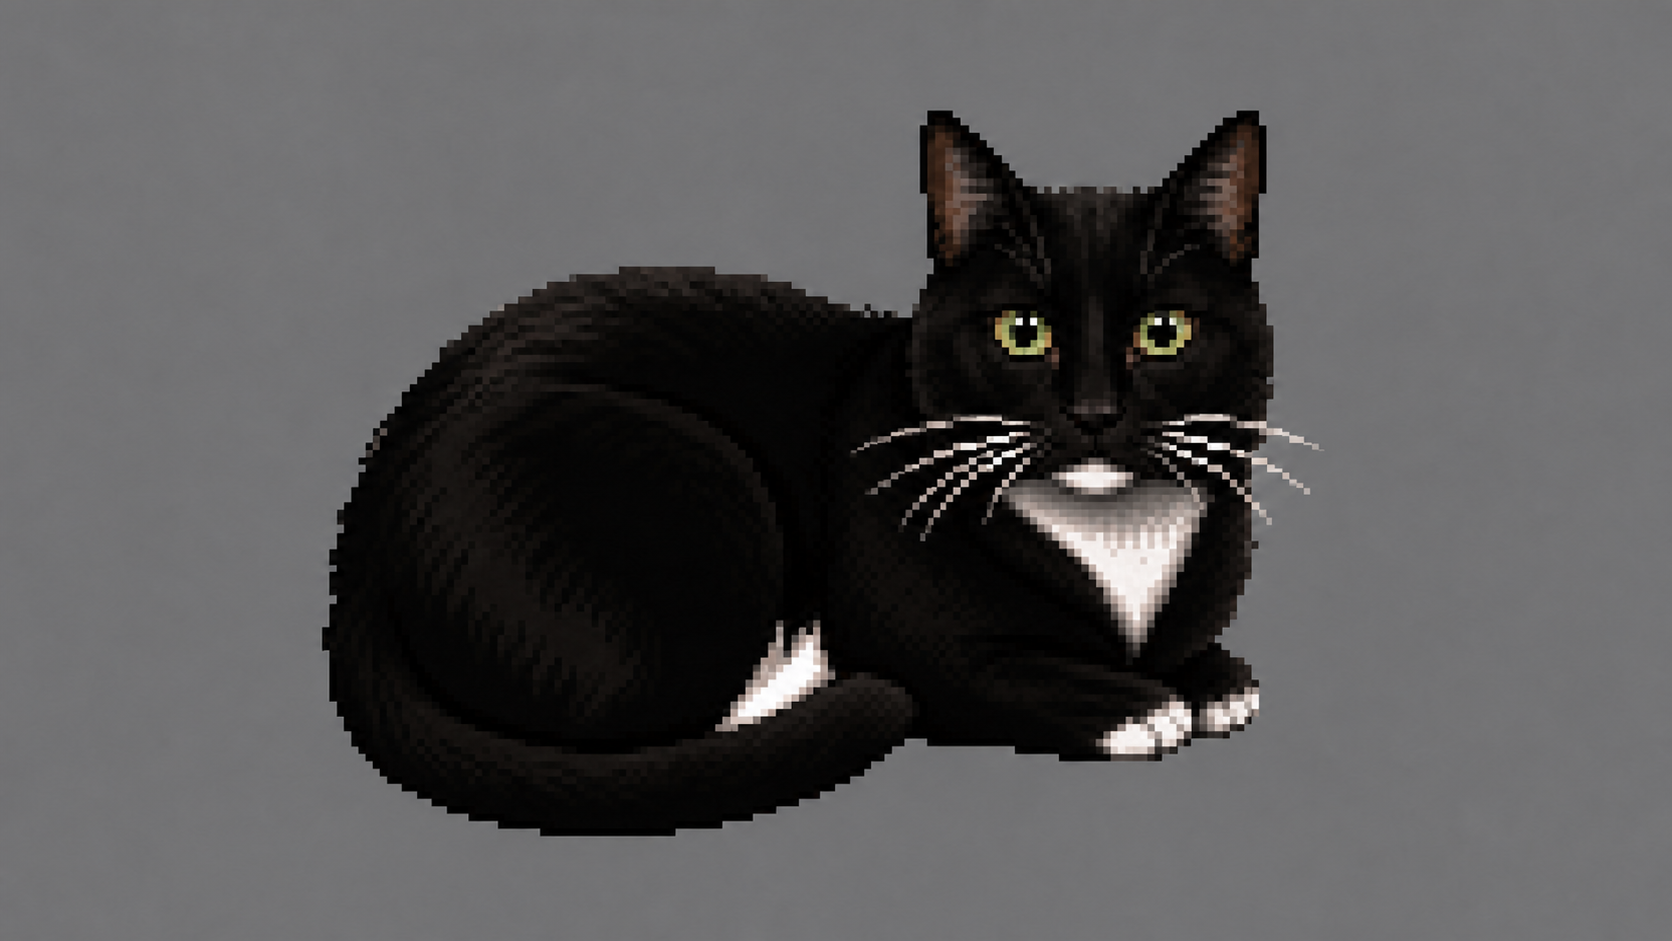
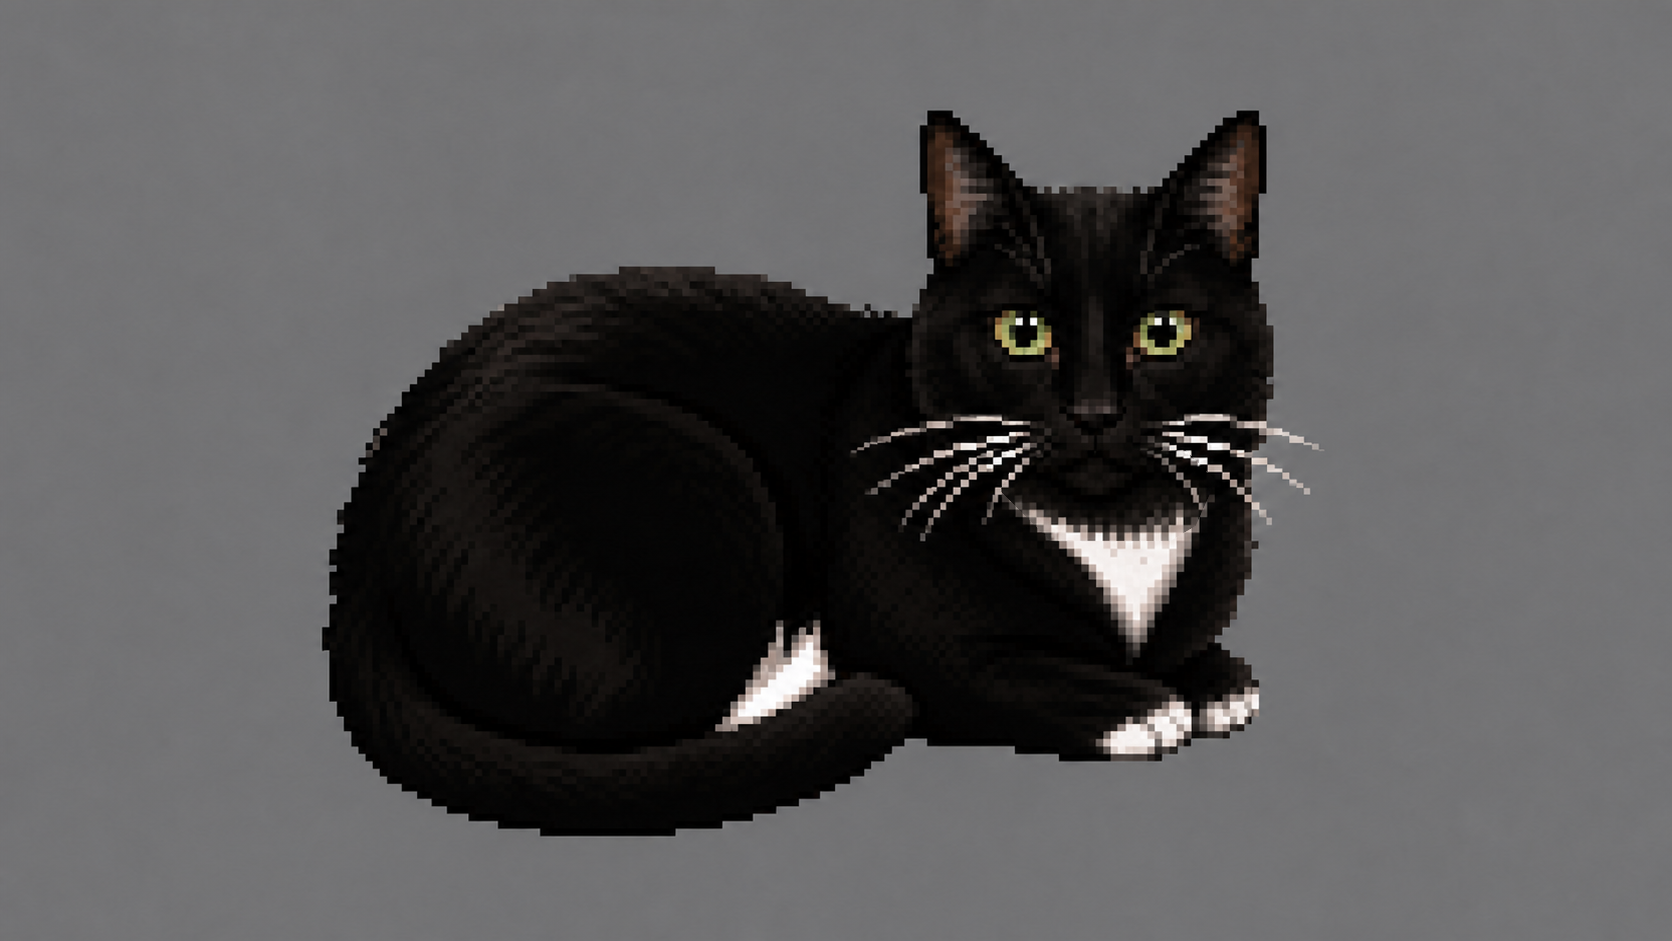
Fix cat wallpaper and Plymouth unlock image

Changed region(s): [[0.5909, 0.4931, 0.7464, 0.5855]]

diff --git a/docs/setup-cat-background.md b/docs/setup-cat-background.md
@@ -1,6 +1,7 @@
 # setup-cat-background
 
-Renders a full-color pixel-art cat wallpaper on a neutral-gray background.
+Renders a full-color pixel-art cat wallpaper on a neutral-gray background and
+uses the same corrected cat for Omarchy's Plymouth disk-encryption prompt.
 
 ```bash
 ./bin/setup-cat-background              # render it and make it current
@@ -24,7 +25,8 @@ alongside the cat. It appears in the background switcher as "Pixel Cat".
 
 ## The art
 
-`assets/cat-wallpaper.png` is the approved full-color source artwork. It was
+`assets/cat-wallpaper.png` is the approved full-color source artwork. The cat's
+chin is black while its white chest bib begins below it. It was
 generated from two cat photographs: the first supplied the curled body pose,
 and the second supplied the coherent front-facing identity, facial proportions,
 eyes, ears, markings, and whiskers. The generated source is 1672x941 RGB pixel
@@ -39,15 +41,23 @@ and markings remain intact across themes.
 1. Installs `imagemagick` with `omarchy pkg add` if it is not already present.
 2. Reads the active theme from `~/.local/state/omarchy/current/theme.name` to
    select its per-theme user background directory.
-3. Scales `assets/cat-wallpaper.png` into the requested canvas with
-   ImageMagick's `point` filter, preserving hard pixel edges and the full RGB
-   palette. Non-16:9 sizes receive neutral-gray padding rather than distortion.
+3. Scales `assets/cat-wallpaper.png` into the requested desktop canvas and an
+   `800x450` transparent Plymouth image with ImageMagick's `point` filter,
+   preserving hard pixel edges and the full RGB palette. The transparent cutout
+   blends into Plymouth's flat neutral-gray background without a rectangular
+   edge. Non-16:9 desktop sizes receive neutral-gray padding rather than
+   distortion. The unlock image lives under `~/.config/omarchy/plymouth/`, so it
+   does not appear in the desktop background switcher.
 4. Compares the result with the existing wallpaper and rewrites it only if the
    bytes differ, backing the old one up first.
 5. Sets it as the current background with `omarchy theme bg set`, then bounces
    Omarchy Shell through a private cache alias and back to the stable path. This
    defeats the shell's same-path guard and image cache so changed pixels reload
-   immediately. `--no-activate` skips this step.
+   immediately.
+6. Applies the smaller image to the early-boot disk-encryption prompt with
+   `omarchy plymouth set`, which rebuilds the initramfs using Omarchy's supported
+   Plymouth workflow. It skips that rebuild when the installed image is already
+   current. `--no-activate` skips both activation steps.
 
 Rendering is deterministic: `-strip` and excluded PNG date chunks mean the same
 source and canvas size produce the same bytes. That makes step 4 a real
@@ -58,7 +68,7 @@ idempotence check rather than a timestamp comparison.
 | Flag | Effect |
 | --- | --- |
 | `--size WxH` | Canvas size, default `3840x2160` |
-| `--no-activate` | Render without changing the current background |
+| `--no-activate` | Render both images without applying either one |
 | `--force` | Re-render even when the existing wallpaper matches |
 | `-n`, `--dry-run` | Print what would happen, change nothing |
 | `-y`, `--yes` | Accepted for `setup-all` compatibility |

diff --git a/README.md b/README.md
@@ -48,7 +48,7 @@ touching the system.
 | `bin/setup-no-idle` | Stop the screensaver and idle auto-lock from firing | [docs/setup-no-idle.md](docs/setup-no-idle.md) |
 | `bin/setup-brave` | Build vetted Brave package and make it the default browser | [docs/setup-brave.md](docs/setup-brave.md) |
 | `bin/setup-rpi-imager` | Install Raspberry Pi Imager from Arch Extra | [docs/setup-rpi-imager.md](docs/setup-rpi-imager.md) |
-| `bin/setup-cat-background` | Render a full-color pixel-art cat wallpaper on neutral gray | [docs/setup-cat-background.md](docs/setup-cat-background.md) |
+| `bin/setup-cat-background` | Set a pixel-art cat desktop and disk-unlock background | [docs/setup-cat-background.md](docs/setup-cat-background.md) |
 | `bin/setup-no-chromium-extensions` | Remove Omarchy's bundled Chromium extensions | [docs/setup-no-chromium-extensions.md](docs/setup-no-chromium-extensions.md) |
 | `bin/setup-no-localsend` | Remove LocalSend and the ufw rules that expose it | [docs/setup-no-localsend.md](docs/setup-no-localsend.md) |
 | `bin/lint` | shellcheck in a container — no host tooling to install | [docs/lint.md](docs/lint.md) |
